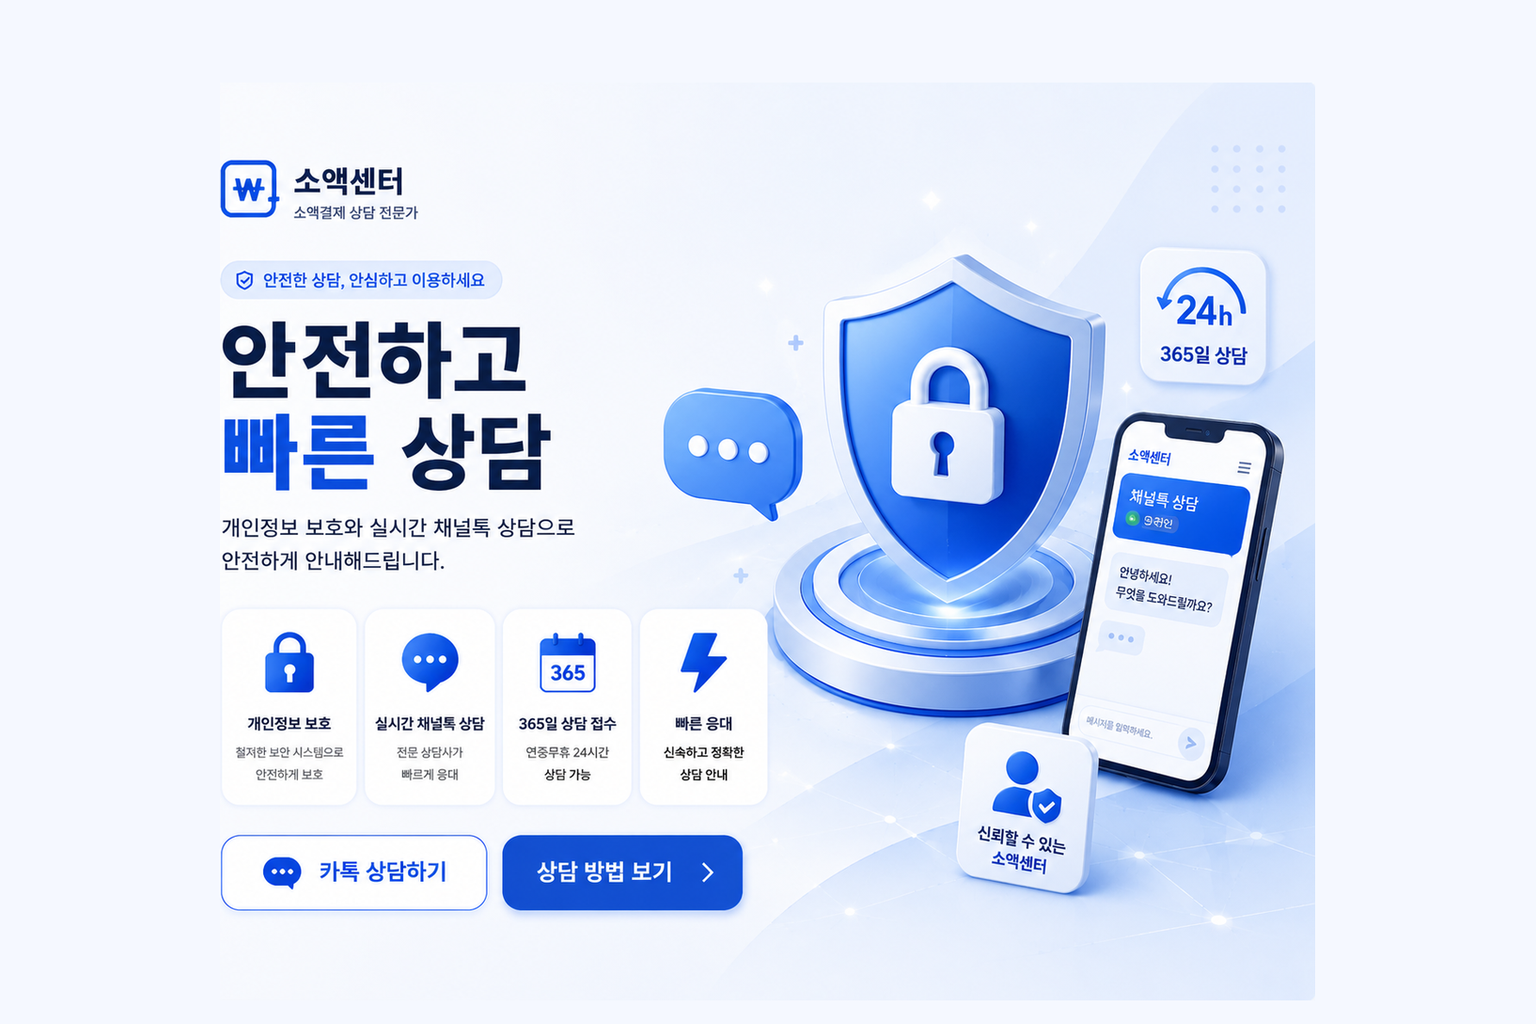
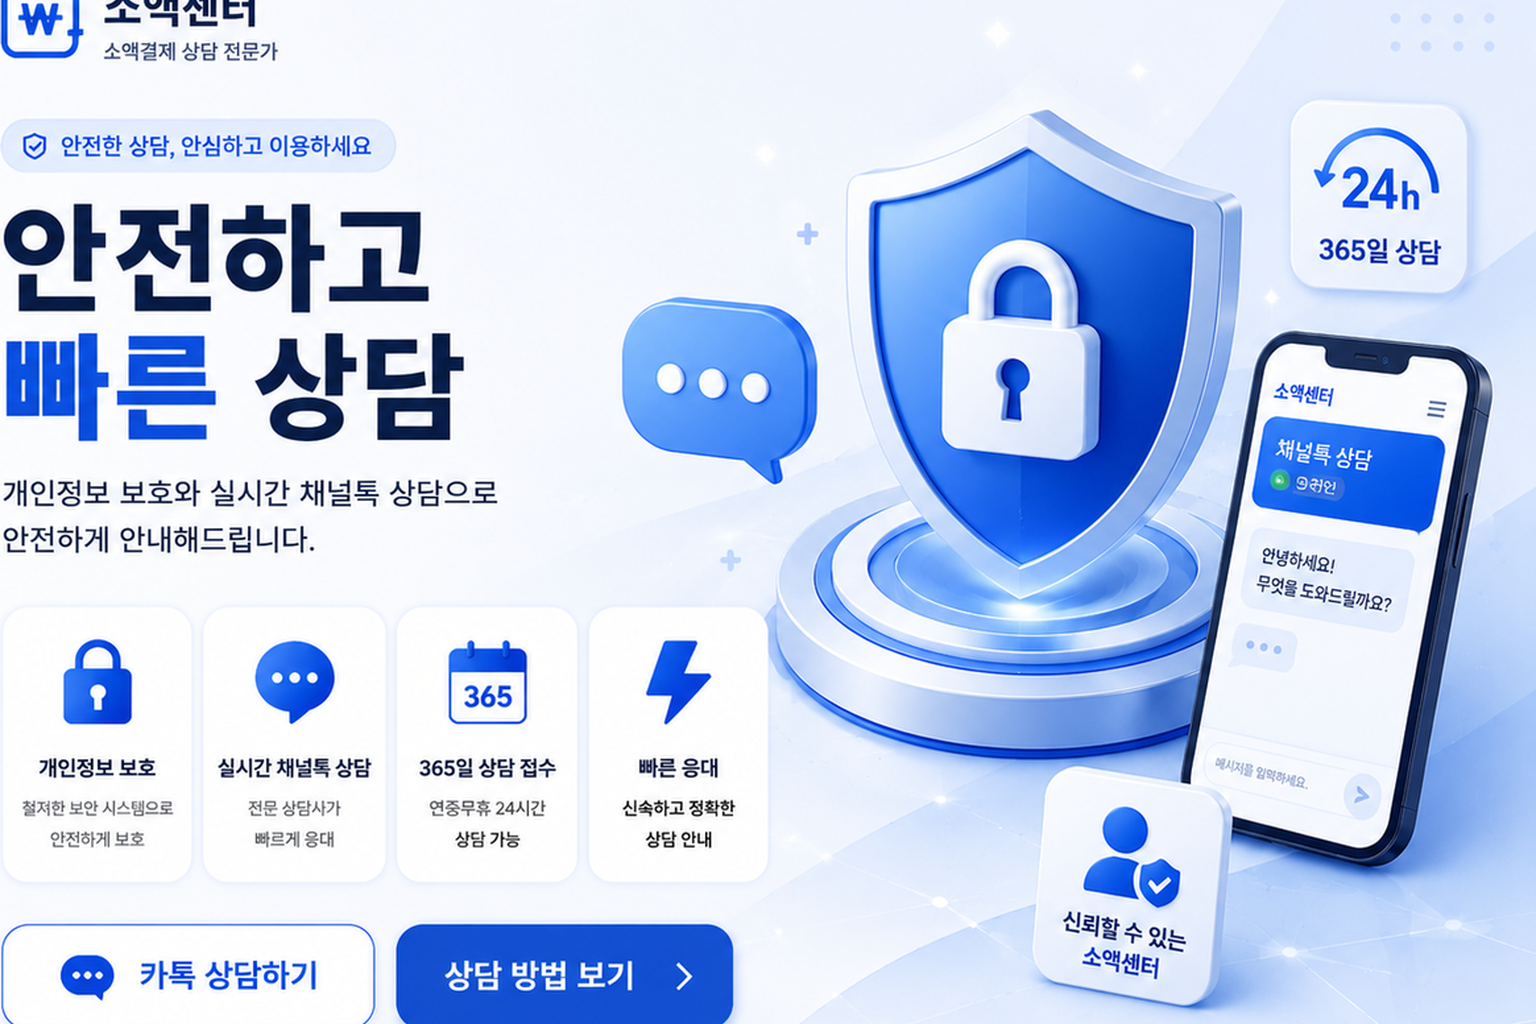
feat: refine hero slider visuals

diff --git a/css/style.css b/css/style.css
@@ -652,10 +652,11 @@ textarea {
   display: block;
   width: 100%;
   height: 100%;
+  max-width: none;
   margin: 0;
   padding: 0;
   object-fit: cover;
-  object-position: center;
+  object-position: center center;
   transform: none;
 }
 

diff --git a/scripts/fill-hero-slides.py b/scripts/fill-hero-slides.py
@@ -1,0 +1,79 @@
+"""Fill hero slides edge-to-edge on 1536x1024 (cover-style crop, no letterbox)."""
+from __future__ import annotations
+
+import shutil
+from pathlib import Path
+
+from PIL import Image
+
+ROOT = Path(__file__).resolve().parents[1]
+IMAGES = ROOT / "images"
+BACKUP = IMAGES / "backup"
+TARGET_W, TARGET_H = 1536, 1024
+BG = (245, 248, 255)
+TOLERANCE = 18
+
+
+def content_bounds(img: Image.Image) -> tuple[int, int, int, int]:
+    rgba = img.convert("RGBA")
+    w, h = rgba.size
+    px = rgba.load()
+    min_x, min_y, max_x, max_y = w, h, 0, 0
+    found = False
+
+    for y in range(h):
+        for x in range(w):
+            r, g, b, a = px[x, y]
+            if a < 250:
+                continue
+            if abs(r - BG[0]) + abs(g - BG[1]) + abs(b - BG[2]) > TOLERANCE:
+                found = True
+                min_x = min(min_x, x)
+                max_x = max(max_x, x)
+                min_y = min(min_y, y)
+                max_y = max(max_y, y)
+
+    if not found:
+        return 0, 0, w, h
+    return min_x, min_y, max_x + 1, max_y + 1
+
+
+def fill_cover(path: Path, source: Path) -> None:
+    img = Image.open(source).convert("RGB")
+    left, top, right, bottom = content_bounds(img)
+    content = img.crop((left, top, right, bottom))
+    cw, ch = content.size
+
+    scale = max(TARGET_W / cw, TARGET_H / ch)
+    new_w = int(round(cw * scale))
+    new_h = int(round(ch * scale))
+    scaled = content.resize((new_w, new_h), Image.Resampling.LANCZOS)
+
+    crop_x = max(0, (new_w - TARGET_W) // 2)
+    crop_y = max(0, (new_h - TARGET_H) // 2)
+    filled = scaled.crop((crop_x, crop_y, crop_x + TARGET_W, crop_y + TARGET_H))
+    filled.save(path, optimize=True)
+    print(
+        f"{path.name}: source={source.name}, content={cw}x{ch}, "
+        f"scale={scale:.4f}, crop_y={crop_y}px"
+    )
+
+
+def main() -> None:
+    BACKUP.mkdir(parents=True, exist_ok=True)
+    pairs = [
+        ("hero-slide-1.png", "hero-slide-1-before-top-padding.png"),
+        ("hero-slide-2.png", "hero-slide-2-before-top-padding.png"),
+    ]
+    for out_name, backup_name in pairs:
+        out = IMAGES / out_name
+        backup = BACKUP / backup_name
+        if not backup.exists():
+            backup = BACKUP / out_name.replace(".png", "-before-normalize.png")
+        staged = BACKUP / out_name.replace(".png", "-before-fill.png")
+        shutil.copy2(out, staged)
+        fill_cover(out, backup)
+
+
+if __name__ == "__main__":
+    main()